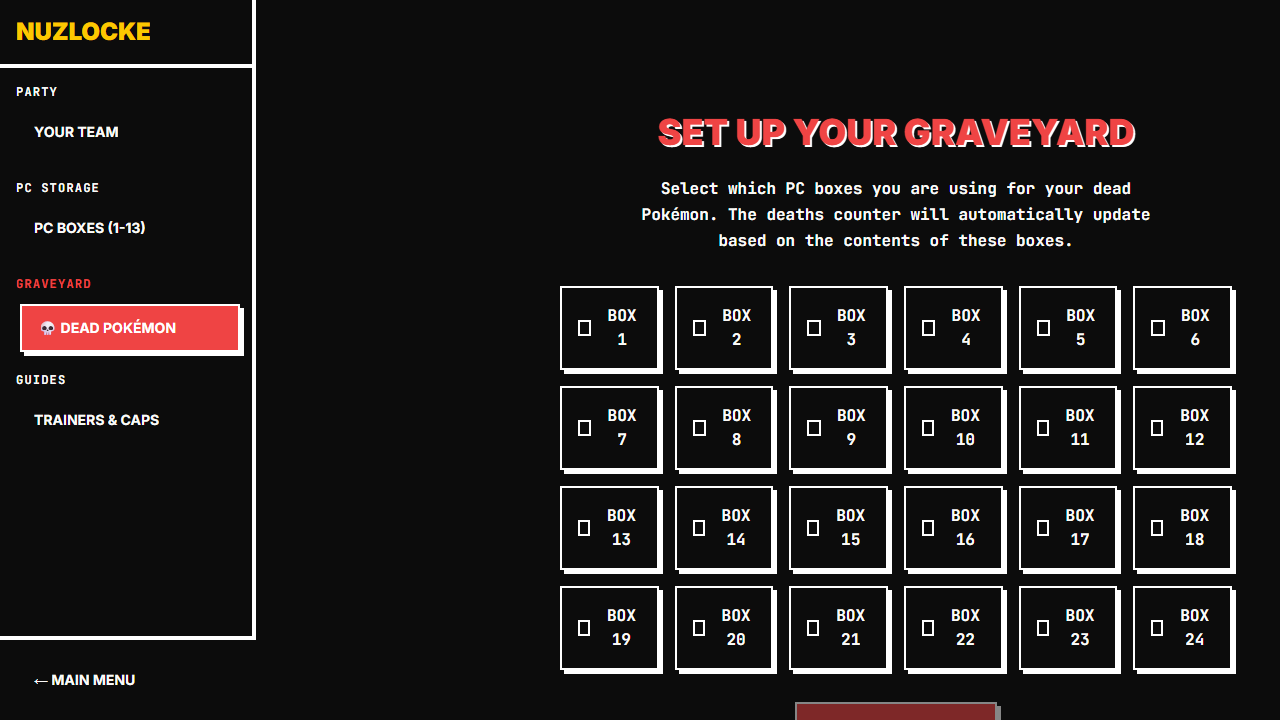
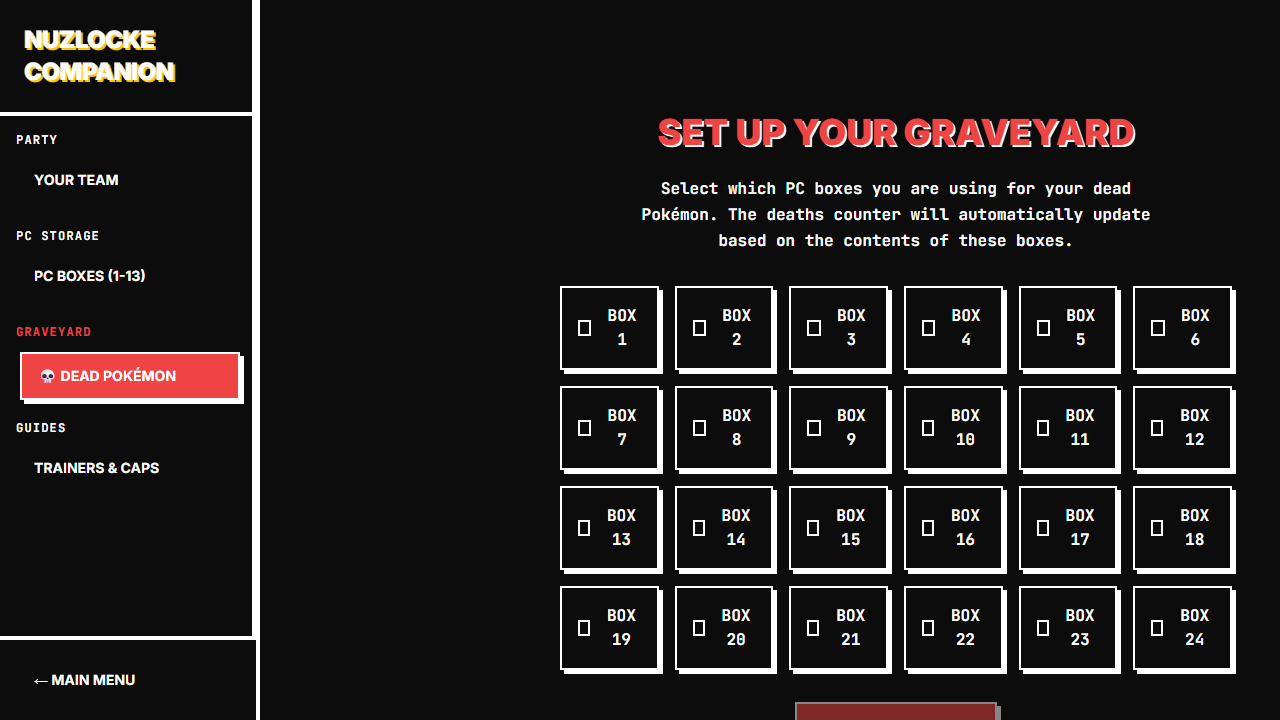
Update text to white with yellow shadows

diff --git a/src/components/PokemonCard.tsx b/src/components/PokemonCard.tsx
@@ -74,7 +74,7 @@ export default function PokemonCard({ pkmn, isBox = false }: PokemonCardProps) {
             style={{ imageRendering: 'pixelated' }}
           />
           <div className="flex-1 min-w-0">
-            <h3 className="text-2xl font-display font-black uppercase text-primary flex flex-col xl:flex-row xl:justify-between truncate">
+            <h3 className="text-2xl font-display font-black uppercase text-text flex flex-col xl:flex-row xl:justify-between truncate">
               <span className="truncate">
                 {pkmn.nickname} 
                 {displayStats?.level !== undefined ? ` (Lv. ${displayStats.level})` : ''}
@@ -82,7 +82,7 @@ export default function PokemonCard({ pkmn, isBox = false }: PokemonCardProps) {
               <span className="text-text text-sm xl:ml-2 font-mono font-bold">#{pkmn.speciesId} {getSpeciesName(pkmn.speciesId)}</span>
             </h3>
             <p className="text-sm text-text font-mono mt-1 truncate uppercase">
-              Ability: <span className="text-primary font-black">{getAbilityName(pkmn.speciesId, pkmn.abilityBit, pkmn.abilityId)}</span>
+              Ability: <span className="text-text font-black">{getAbilityName(pkmn.speciesId, pkmn.abilityBit, pkmn.abilityId)}</span>
             </p>
         </div>
       </div>
@@ -104,11 +104,11 @@ export default function PokemonCard({ pkmn, isBox = false }: PokemonCardProps) {
             </div>
           )}
           <div className="grid grid-cols-2 gap-2 text-sm text-text font-mono font-bold p-3 border-2 border-white bg-surface rounded-none mt-2 shadow-[2px_2px_0_rgba(255,255,255,1)]">
-            <div>Atk: <span className="text-primary font-black">{displayStats.atk}</span></div>
-            <div>Def: <span className="text-primary font-black">{displayStats.def}</span></div>
-            <div>SpA: <span className="text-primary font-black">{displayStats.spa}</span></div>
-            <div>SpD: <span className="text-primary font-black">{displayStats.spd}</span></div>
-            <div>Spe: <span className="text-primary font-black">{displayStats.spe}</span></div>
+            <div>Atk: <span className="text-text font-black">{displayStats.atk}</span></div>
+            <div>Def: <span className="text-text font-black">{displayStats.def}</span></div>
+            <div>SpA: <span className="text-text font-black">{displayStats.spa}</span></div>
+            <div>SpD: <span className="text-text font-black">{displayStats.spd}</span></div>
+            <div>Spe: <span className="text-text font-black">{displayStats.spe}</span></div>
             <div>PID: <span className="text-text truncate font-mono font-bold" title={pkmn.pid?.toString()}>{pkmn.pid}</span></div>
           </div>
         </div>
@@ -118,17 +118,17 @@ export default function PokemonCard({ pkmn, isBox = false }: PokemonCardProps) {
         <div className="mb-4">
           <div className="flex items-center gap-2 mb-1">
             <p className="text-sm text-text uppercase font-mono font-bold">IVs</p>
-            <span className="bg-surface text-primary border-2 border-white text-xs px-2 py-0.5 font-black uppercase shadow-[2px_2px_0_rgba(255,255,255,1)]">
+            <span className="bg-primary text-surface border-2 border-white text-xs px-2 py-0.5 font-black uppercase shadow-[2px_2px_0_rgba(255,255,255,1)]">
               HP: {calculateHiddenPower(pkmn.ivs)} {calculateHiddenPowerPower(pkmn.ivs)}
             </span>
           </div>
           <div className="grid grid-cols-6 gap-0 text-xs text-center border-2 border-white bg-surface mt-2 font-mono font-bold shadow-[2px_2px_0_rgba(255,255,255,1)]">
-            <div className="border-r-2 border-white last:border-r-0"><div className="text-text border-b-2 border-white p-1">HP</div><div className={`p-1 ${pkmn.ivs.hp === 31 ? "text-success font-black" : "text-primary"}`}>{pkmn.ivs.hp}</div></div>
-            <div className="border-r-2 border-white last:border-r-0"><div className="text-text border-b-2 border-white p-1">Atk</div><div className={`p-1 ${pkmn.ivs.attack === 31 ? "text-success font-black" : "text-primary"}`}>{pkmn.ivs.attack}</div></div>
-            <div className="border-r-2 border-white last:border-r-0"><div className="text-text border-b-2 border-white p-1">Def</div><div className={`p-1 ${pkmn.ivs.defense === 31 ? "text-success font-black" : "text-primary"}`}>{pkmn.ivs.defense}</div></div>
-            <div className="border-r-2 border-white last:border-r-0"><div className="text-text border-b-2 border-white p-1">SpA</div><div className={`p-1 ${pkmn.ivs.spAttack === 31 ? "text-success font-black" : "text-primary"}`}>{pkmn.ivs.spAttack}</div></div>
-            <div className="border-r-2 border-white last:border-r-0"><div className="text-text border-b-2 border-white p-1">SpD</div><div className={`p-1 ${pkmn.ivs.spDefense === 31 ? "text-success font-black" : "text-primary"}`}>{pkmn.ivs.spDefense}</div></div>
-            <div className="border-r-0 border-white last:border-r-0"><div className="text-text border-b-2 border-white p-1">Spe</div><div className={`p-1 ${pkmn.ivs.speed === 31 ? "text-success font-black" : "text-primary"}`}>{pkmn.ivs.speed}</div></div>
+            <div className="border-r-2 border-white last:border-r-0"><div className="text-text border-b-2 border-white p-1">HP</div><div className={`p-1 ${pkmn.ivs.hp === 31 ? "text-success font-black" : "text-text"}`}>{pkmn.ivs.hp}</div></div>
+            <div className="border-r-2 border-white last:border-r-0"><div className="text-text border-b-2 border-white p-1">Atk</div><div className={`p-1 ${pkmn.ivs.attack === 31 ? "text-success font-black" : "text-text"}`}>{pkmn.ivs.attack}</div></div>
+            <div className="border-r-2 border-white last:border-r-0"><div className="text-text border-b-2 border-white p-1">Def</div><div className={`p-1 ${pkmn.ivs.defense === 31 ? "text-success font-black" : "text-text"}`}>{pkmn.ivs.defense}</div></div>
+            <div className="border-r-2 border-white last:border-r-0"><div className="text-text border-b-2 border-white p-1">SpA</div><div className={`p-1 ${pkmn.ivs.spAttack === 31 ? "text-success font-black" : "text-text"}`}>{pkmn.ivs.spAttack}</div></div>
+            <div className="border-r-2 border-white last:border-r-0"><div className="text-text border-b-2 border-white p-1">SpD</div><div className={`p-1 ${pkmn.ivs.spDefense === 31 ? "text-success font-black" : "text-text"}`}>{pkmn.ivs.spDefense}</div></div>
+            <div className="border-r-0 border-white last:border-r-0"><div className="text-text border-b-2 border-white p-1">Spe</div><div className={`p-1 ${pkmn.ivs.speed === 31 ? "text-success font-black" : "text-text"}`}>{pkmn.ivs.speed}</div></div>
           </div>
         </div>
       )}

diff --git a/src/components/TrainersView.tsx b/src/components/TrainersView.tsx
@@ -59,7 +59,7 @@ export default function TrainersView({ trainers }: Props) {
 
   return (
     <div>
-      <h2 className="text-4xl font-display font-black uppercase text-primary drop-shadow-[2px_2px_0_rgba(255,255,255,1)] mb-8">Trainers Guide</h2>
+      <h2 className="text-4xl font-display font-black uppercase text-text drop-shadow-[2px_2px_0_rgba(253,200,0,1)] mb-8">Trainers Guide</h2>
       <div className="space-y-8">
         {groups.map((group, groupIndex) => {
           const isExpanded = expandedGroups.has(groupIndex);
@@ -79,7 +79,7 @@ export default function TrainersView({ trainers }: Props) {
                 <div key={index} className="bg-surface p-5 border-4 border-white shadow-brutal-white">
                   <div className="flex justify-between items-start mb-4 border-b-4 border-white pb-3">
                     <div>
-                      <h4 className="text-2xl font-display font-black uppercase text-secondary drop-shadow-[2px_2px_0_rgba(255,255,255,1)]">{trainer.name || "Unknown Trainer"}</h4>
+                      <h4 className="text-2xl font-display font-black uppercase text-text drop-shadow-[2px_2px_0_rgba(253,200,0,1)]">{trainer.name || "Unknown Trainer"}</h4>
                       <div className="text-sm text-text font-mono font-bold mt-1 uppercase">
                         {trainer.route} {trainer.location ? `- ${trainer.location}` : ''}
                       </div>
@@ -96,7 +96,7 @@ export default function TrainersView({ trainers }: Props) {
                       <div key={i} className="flex flex-col sm:flex-row sm:items-center justify-between bg-surface p-3 border-2 border-white shadow-[2px_2px_0_rgba(255,255,255,1)]">
                         <div className="flex-1">
                           <div className="flex items-center space-x-3">
-                            <span className="font-display font-black uppercase text-primary">{pkmn.species}</span>
+                            <span className="font-display font-black uppercase text-text">{pkmn.species}</span>
                             <span className="text-xs font-mono font-black text-surface bg-primary px-2 py-0.5 border-2 border-white shadow-[2px_2px_0_rgba(255,255,255,1)]">
                               Lv. {pkmn.level}
                             </span>

diff --git a/src/components/StartScreen.tsx b/src/components/StartScreen.tsx
@@ -14,10 +14,11 @@ export default function StartScreen({
 }: StartScreenProps) {
   return (
     <div className="min-h-screen bg-surface flex flex-col items-center justify-center p-4">
-      <div className="text-center mb-16">
-        <h1 className="text-6xl md:text-7xl font-display font-black text-primary mb-6 tracking-tighter uppercase drop-shadow-[4px_4px_0_rgba(255,255,255,1)]">
-          Pokémon NUZLOCKE tracker
-        </h1>
+      <div className="max-w-2xl w-full flex flex-col items-center justify-center space-y-12">
+        <div className="text-center">
+          <h1 className="text-5xl md:text-7xl font-display font-black uppercase text-text drop-shadow-[4px_4px_0_rgba(253,200,0,1)] mb-6 tracking-tight">
+            Nuzlocke Companion
+          </h1>
         <p className="text-text text-xl md:text-2xl font-bold font-mono">
           Manage and track your Nuzlocke runs
         </p>
@@ -80,6 +81,7 @@ export default function StartScreen({
           <span>Load Game</span>
         </button>
       </div>
+    </div>
     </div>
   );
 }

diff --git a/src/components/Sidebar.tsx b/src/components/Sidebar.tsx
@@ -9,9 +9,11 @@ interface SidebarProps {
 
 export default function Sidebar({ currentView, runId, onMainMenu }: SidebarProps) {
   return (
-    <div className="w-64 border-r-4 border-white h-screen overflow-y-auto flex-shrink-0 bg-surface">
-      <div className="p-4 border-b-4 border-white">
-        <h2 className="text-2xl font-display font-black text-primary uppercase">Nuzlocke</h2>
+    <div className="w-64 bg-surface border-r-4 border-white h-screen flex flex-col flex-shrink-0 shadow-[4px_0_0_rgba(255,255,255,1)] relative z-10">
+      <div className="p-6 border-b-4 border-white">
+        <h1 className="text-2xl font-black font-display text-text uppercase drop-shadow-[2px_2px_0_rgba(253,200,0,1)] tracking-tight">
+          Nuzlocke Companion
+        </h1>
       </div>
       
       <div className="p-4 space-y-6">

diff --git a/src/components/BoxView.tsx b/src/components/BoxView.tsx
@@ -12,7 +12,7 @@ export default function BoxView({ title, boxData }: BoxViewProps) {
 
   return (
     <div>
-      <h2 className="text-3xl font-display font-black uppercase mb-6 text-primary drop-shadow-[2px_2px_0_rgba(255,255,255,1)]">{title}</h2>
+      <h2 className="text-3xl font-display font-black uppercase mb-6 text-text drop-shadow-[2px_2px_0_rgba(253,200,0,1)]">{title}</h2>
       {validPokemon.length === 0 ? (
         <p className="text-text font-mono font-bold uppercase">No Pokémon found here.</p>
       ) : (
